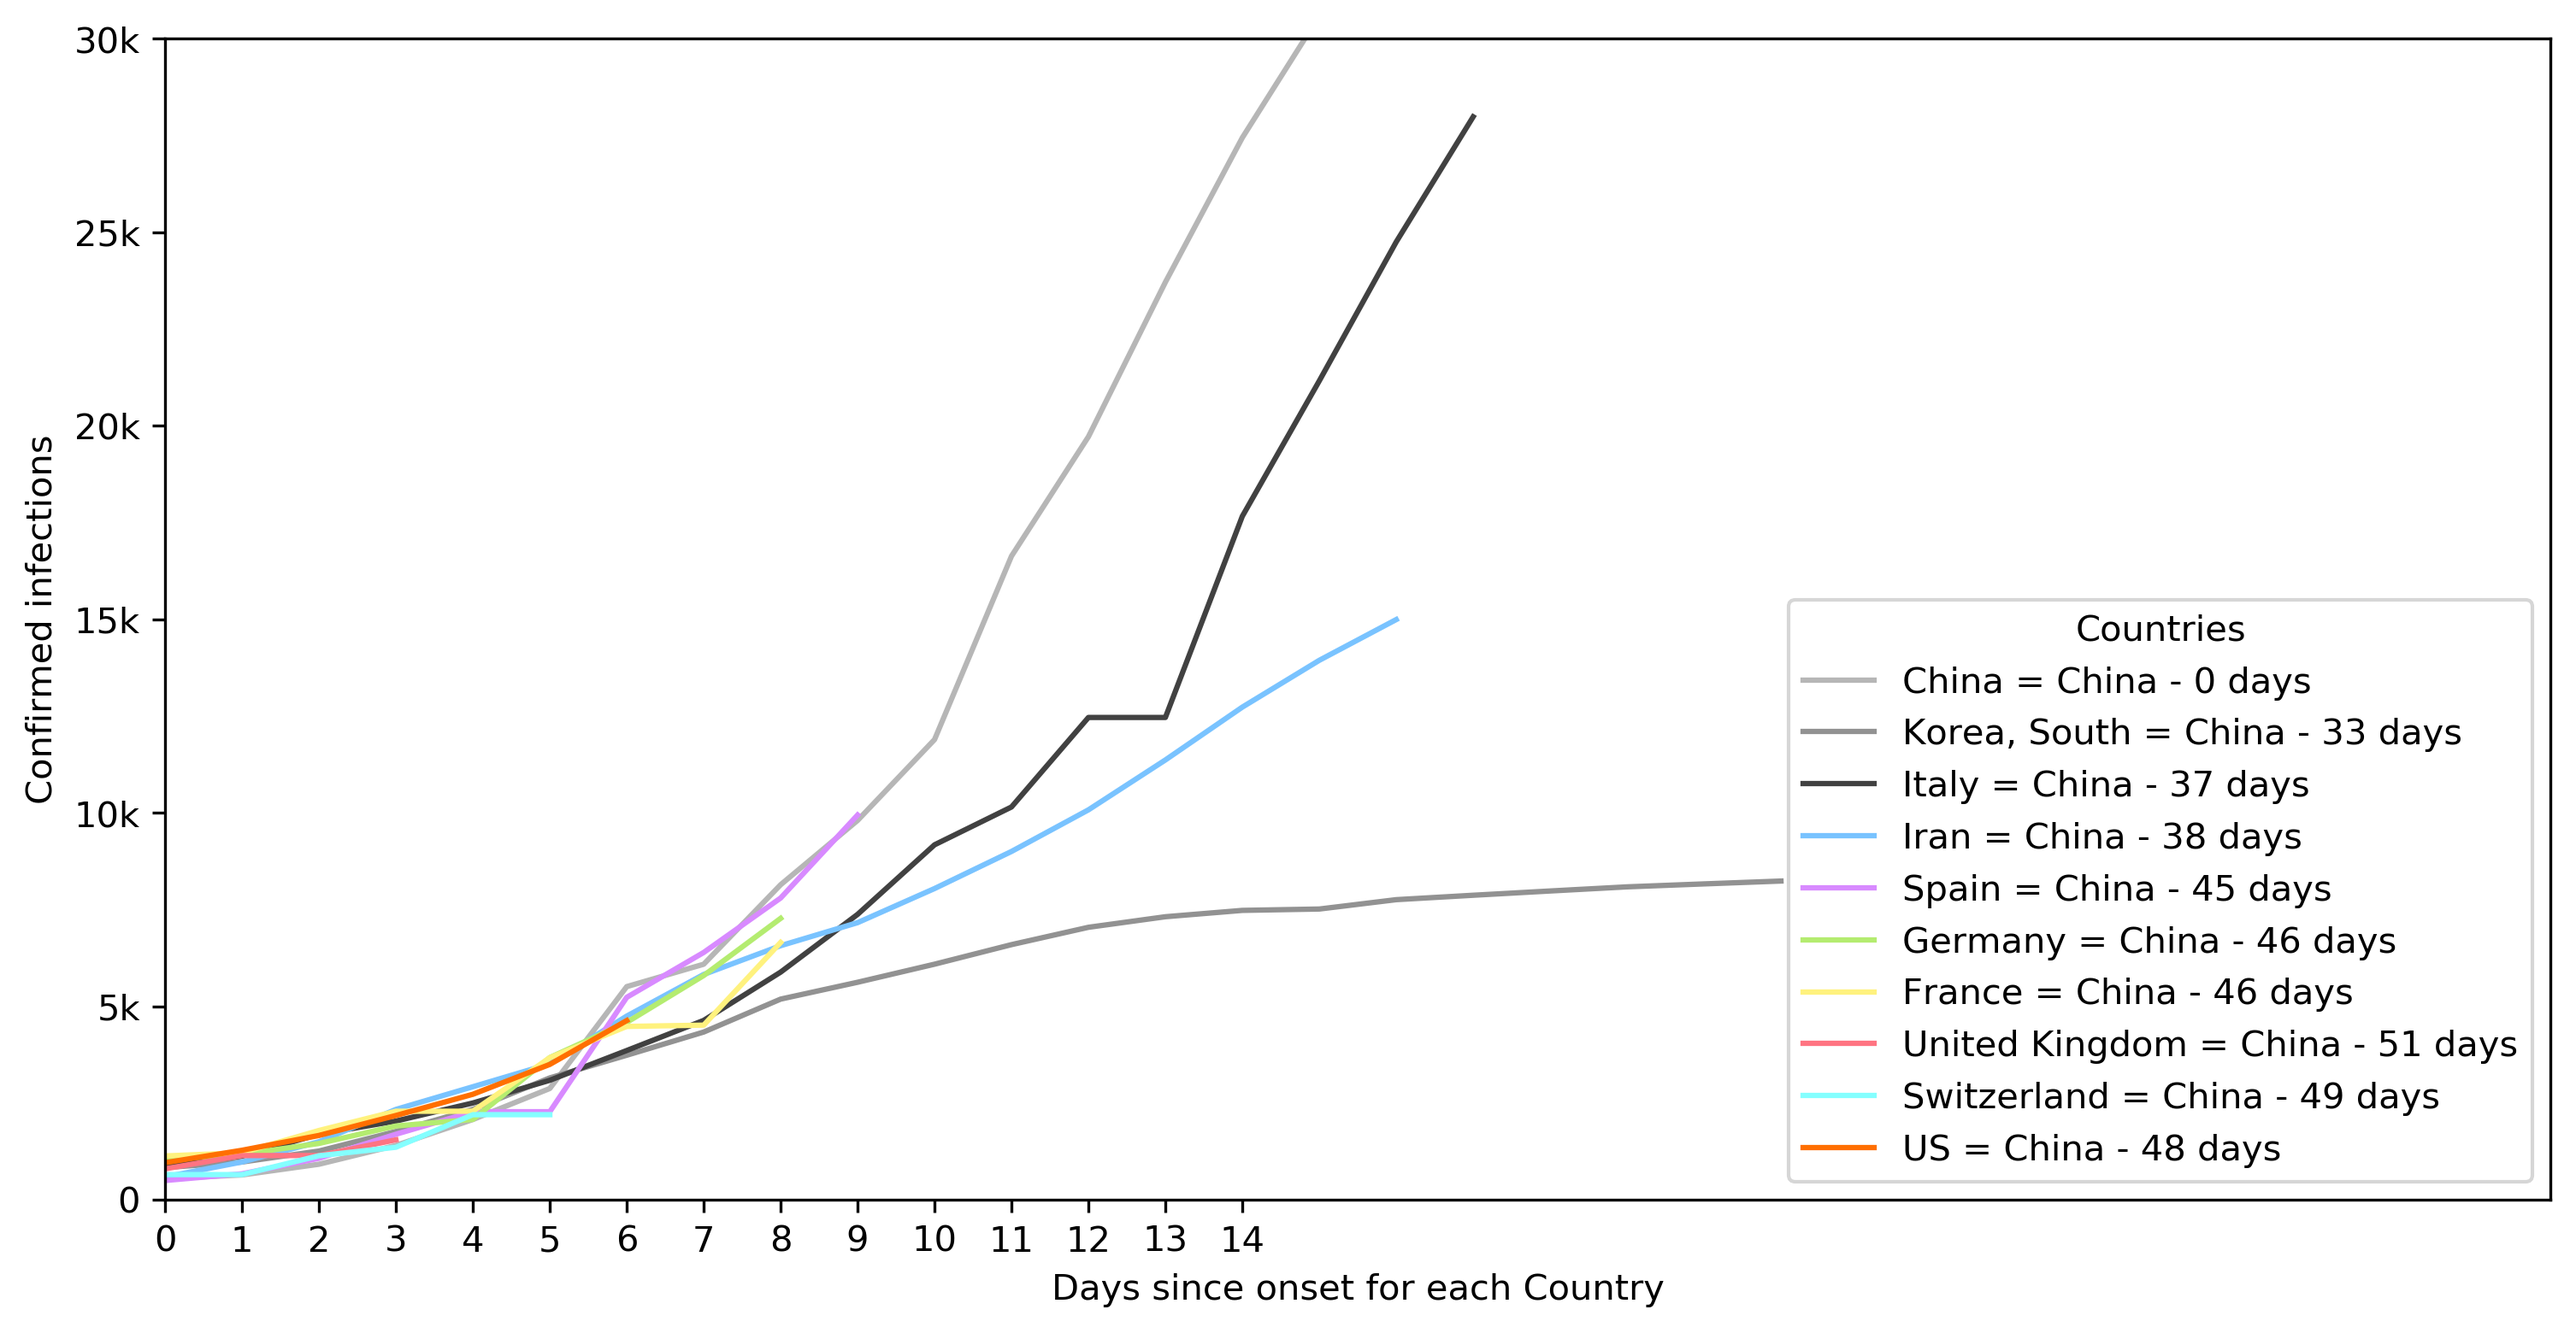
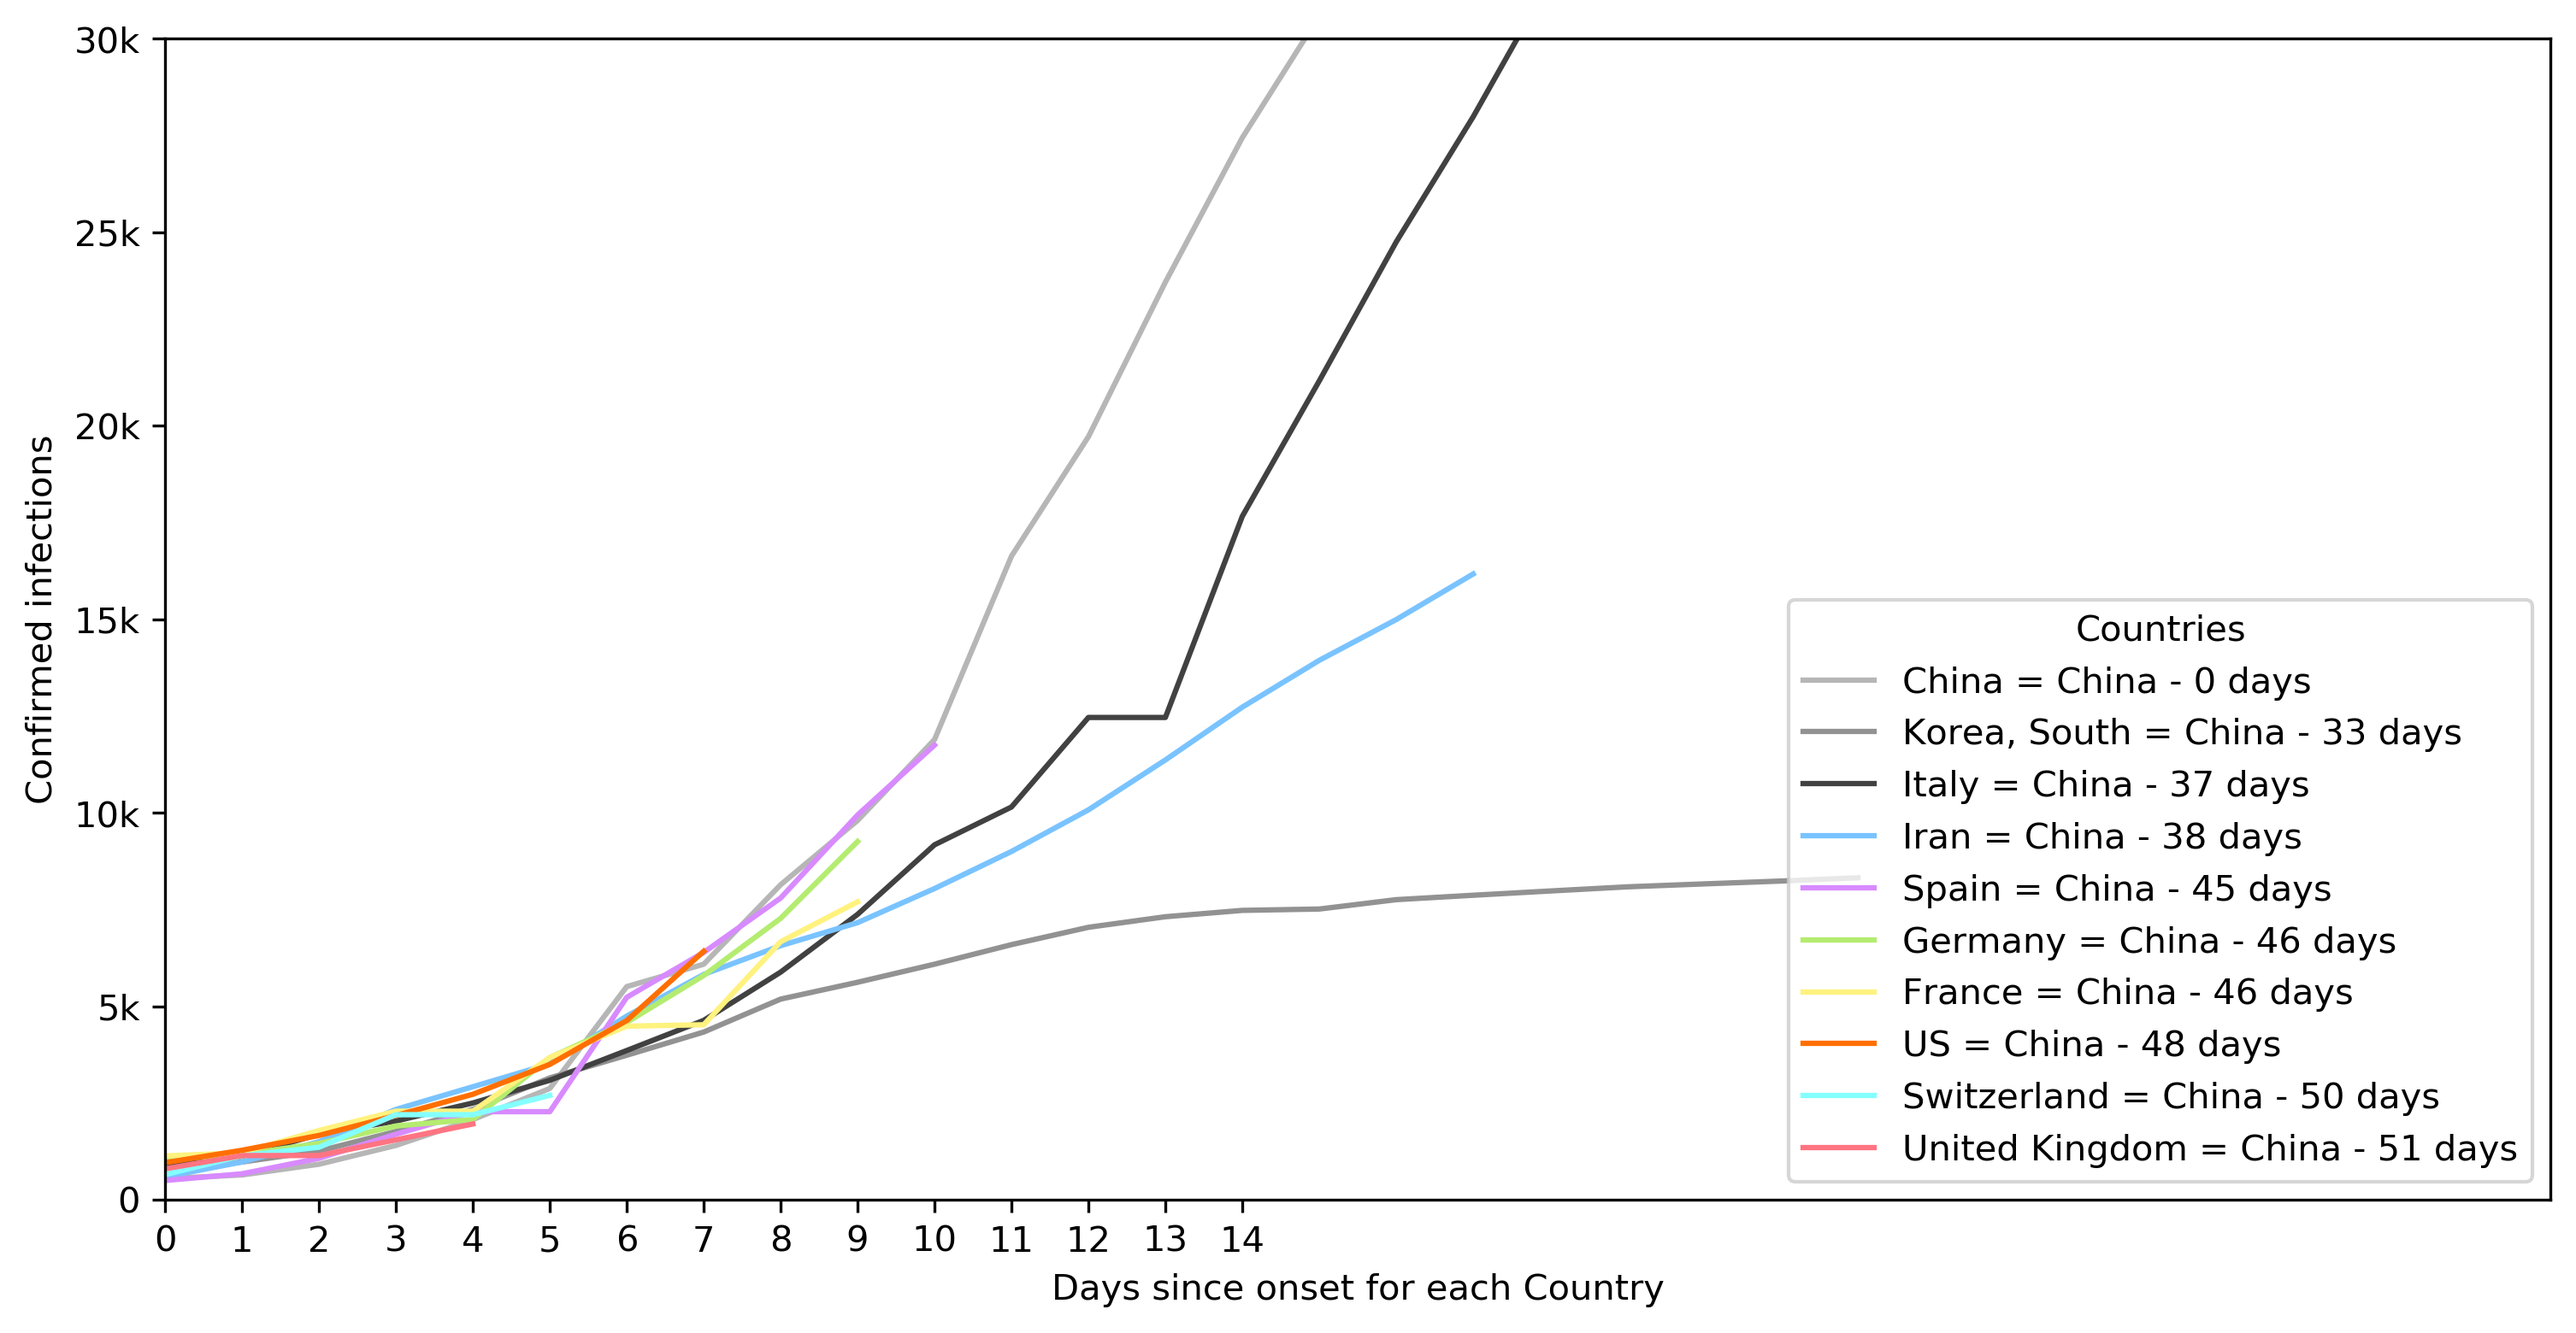
update figures and README

diff --git a/README.md b/README.md
@@ -1,12 +1,18 @@
 # COVID-19 analysis
 
+Growth rate of confirmed infections 
 ![Growth rate](figures/growth_rate.png)
-Growth rate of confirmed infections (as of 3/16/2020)
 
+Model estimates of growth over time of confirmed infections
 ![Growth estimations](figures/growth_estimations.png)
-Model estimates of growth over time of confirmed infections (as of 3/16/2020)
 
-Data from https://github.com/CSSEGISandData/COVID-19
+Summary by country
+![Summary table](figures/summary_table.png)
+
+**Notes**
+
+- Data is from <https://github.com/CSSEGISandData/COVID-19>
+- Last updated on 3/17/2020
 
 ## Initial project setup
 
